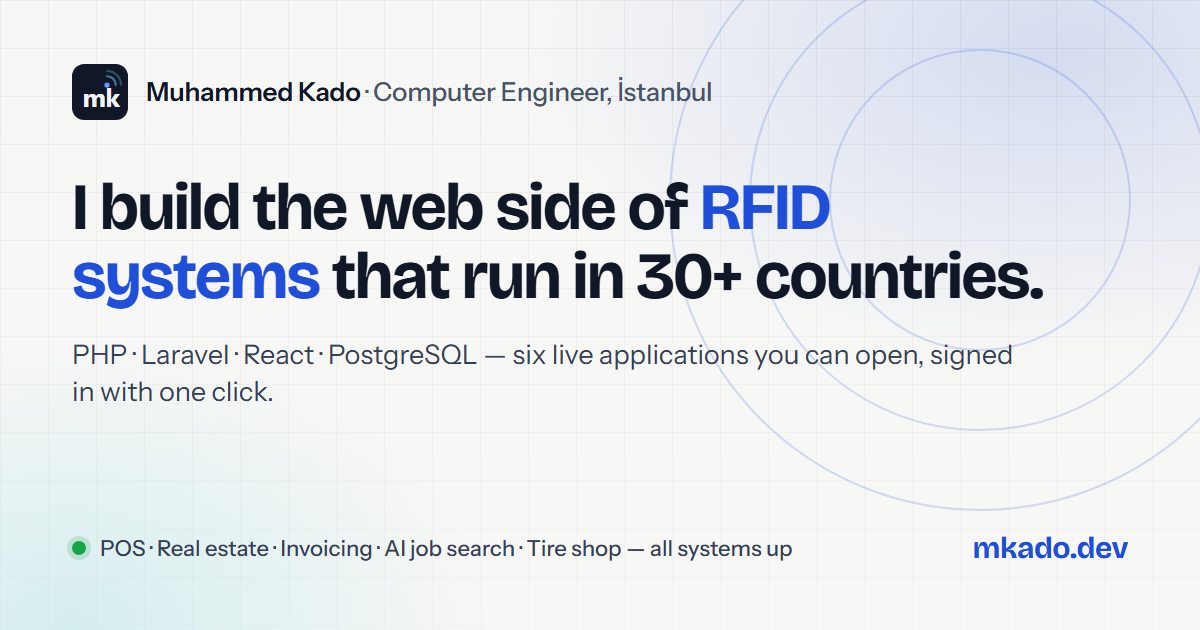
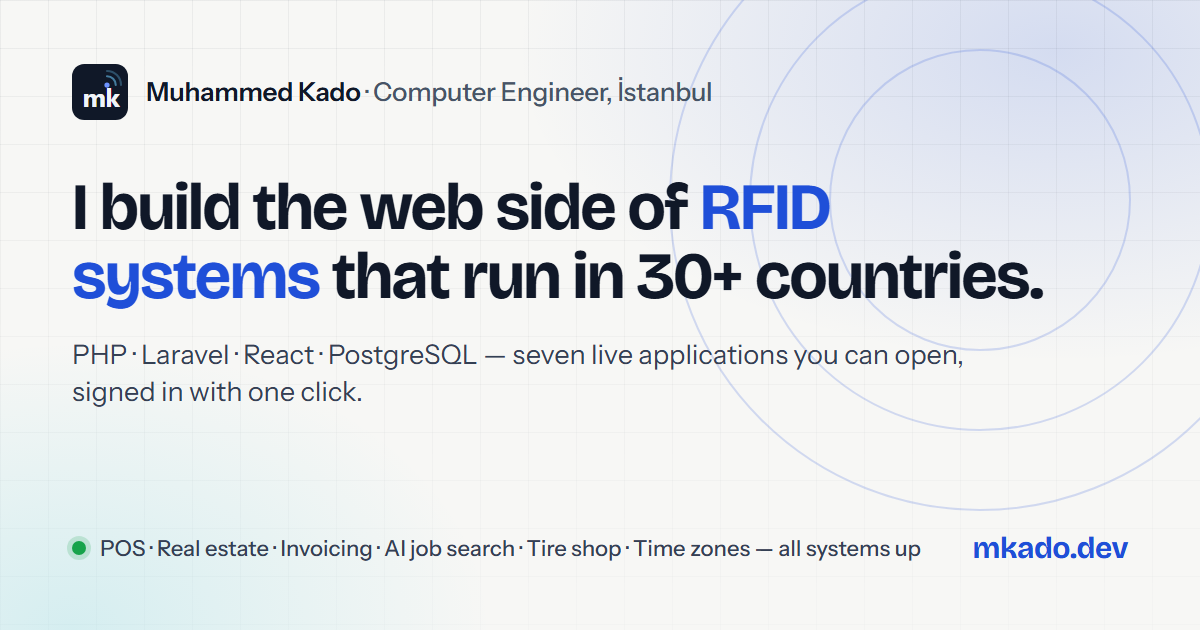
Seventh demo: TimeZone.tools at timezone.mkado.dev
Promoted from the side-projects list to the demo board with a screenshot, a
case study and its diagram; the status probe watches it; copy says seven
everywhere; new share image.

Claude-Session: https://claude.ai/code/session_01VHqrFFmiUR8tMQ4RftZj2C

Changed region(s): [[0.4317, 0.5429, 0.8633, 0.6032], [0.5242, 0.8444, 0.7708, 0.9048], [0.0617, 0.6032, 0.3083, 0.6635]]

diff --git a/src/data/tr.ts b/src/data/tr.ts
@@ -6,42 +6,38 @@ export const tr = {
   profile: {
     title: 'Bilgisayar Mühendisi',
     role: 'Full-Stack Geliştirici',
-    headline: "30'dan fazla ülkede çalışan RFID sistemlerinin web tarafını geliştiriyorum.",
+    headline: "30'dan fazla ülkede kullanılan RFID tabanlı sistemlerin web arayüzlerini geliştiriyorum.",
     intro:
-      "İstanbul'da yaşayan, full-stack çalışan bir bilgisayar mühendisiyim. 2023'ten beri USTEK RFID'de PHP, Laravel ve " +
-      "Zend Framework ile REST API'ler ve web arayüzleri geliştiriyorum; ürün, 30'dan fazla ülkede ticari çamaşırhaneler, " +
-      'oteller ve hastaneler tarafından kullanılan bir çamaşır yönetim platformu. Kendi zamanımda React ve Next.js ile ' +
-      'üretiyorum. Aşağıdaki altı uygulama yayında ve denemeniz için açık.',
+      "İstanbul'da yaşayan full-stack bir bilgisayar mühendisiyim. 2023'ten bu yana USTEK RFID bünyesinde, 30'u aşkın ülkede hizmet veren çamaşırhane yönetim platformunun web arayüzlerini ve REST API'lerini PHP, Laravel ve Zend Framework ile geliştiriyorum. Ayrıca, React ve Next.js ile projeler üretiyorum. Aşağıdaki altı uygulama, doğrudan denemeniz için yayında.",
     plain:
-      'Sade anlatımıyla: otellerin ve çamaşırhanelerin her bir parçayı otomatik takip edebilmesi için RFID donanımının ' +
-      'üstünde çalışan web sistemlerini yazıyorum.',
+      'Kısacası: Otel ve çamaşırhanelerin tekstil envanterlerini RFID teknolojisiyle otomatik takip edebilmeleri için gereken web tabanlı yönetim sistemlerini tasarlayıp geliştiriyorum.',
   },
 
   demos: {
     pos: {
       summary:
-        'Bir satış noktası sisteminin arka ofisi: ürünler, kategoriler, müşteriler ve rol bazlı yetkilerle kullanıcılar; İngilizce ve Arapça (sağdan sola).',
-      note: 'Kayıt kapalı; yukarıdaki hesaplardan birini kullanın. Veriler her gece sıfırlanır.',
+        'Satış noktası (POS) arka ofis sistemi: Ürün, kategori, müşteri yönetimi ve rol tabanlı kullanıcı yetkilendirmesi; İngilizce ve Arapça (RTL) dil desteği.',
+      note: 'Demo modu açık. Demo hesaplarından birini kullanabilirsiniz. Veriler her gece sıfırlanır.',
     },
     besttrend: {
       summary:
-        'Suriye için emlak platformu: fotoğraflı ve haritalı ilanlar, arama ve kayıtlı aramalar, favoriler, ilan sahibi istatistikleri ve moderasyon için yönetim paneli. Arapça, İngilizce ve Kürtçe.',
-      note: 'Özel depo — kod istek üzerine paylaşılır.',
+        'Suriye emlak platformu: Fotoğraflı ve harita destekli ilanlar, gelişmiş arama, favoriler, ilan sahibi istatistikleri ve kapsamlı yönetim paneli. Arapça, İngilizce ve Kürtçe dil desteği.',
+      note: 'Özel proje: Kaynak kod istek üzerine paylaşılır.',
     },
     invoice: {
       summary:
-        'Kalem kalem faturalar ve canlı toplamlar, bekleyen / ödenmiş / geciken ödemelerin takibi, PDF çıktısı ve müşteriye e-posta.',
-      note: "Framework'süz sade PHP: prepared statement'lar, CSRF token'ları, kullanıcıya özel veri.",
+        'Faturalandırma ve ödeme takibi: Detaylı fatura oluşturma, canlı toplam hesaplama, ödeme durumu (bekleyen/ödendi/gecikmiş) takibi, PDF çıktısı ve müşteriye e-posta gönderimi.',
+      note: "Saf PHP: Prepared statement'lar ve CSRF koruması ile güvenli ve hızlı.",
     },
     findjob: {
       summary:
-        'CV yükleyin, Gemini onu düzenlenebilir bir profile dönüştürsün, sonra gerçek iş ilanlarıyla puanlanmış eşleşmeleri görün.',
-      note: "Giriş yok. Örnek CV'yi deneyin ya da kendi PDF'inizi yükleyin.",
+        "Yapay zeka tabanlı iş eşleştirici: CV'nizi yükleyin, Gemini düzenlenebilir bir profile dönüştürsün; ardından size en uygun iş ilanlarıyla eşleşin.",
+      note: "Kayıt gerekmez. Örnek CV'yi deneyin ya da kendi PDF'inizi yükleyin.",
     },
     tireshop: {
       summary:
-        'Lastikçi işletmek için mobil öncelikli PWA: stok, satış ve fatura, giderler ve kâr raporları. Arapça, sağdan sola.',
-      note: 'Giriş yok — yerel demo modunda çalışır, veriler tarayıcınızda kalır.',
+        'Mobil uyumlu lastikçi yönetim sistemi (PWA): Stok, satış, faturalama, gider ve kâr takibi. Arapça (RTL) dil desteği.',
+      note: 'Giriş gerekmez: Yerel demo modunda çalışır, veriler tarayıcınızda kalır.',
     },
   } as Record<string, { summary: string; note: string }>,
 
@@ -51,12 +47,12 @@ export const tr = {
       org: 'USTEK RFID',
       where: 'İstanbul',
       summary:
-        "USTEK, ticari çamaşırhaneler, oteller ve sağlık kurumları için RFID tabanlı çamaşır yönetimi geliştiriyor; 30'dan fazla ülkede kurulu. Ben okuyucuların ve terminallerin üstünde çalışan web platformunda çalışıyorum.",
+        "USTEK, ticari çamaşırhaneler, oteller ve sağlık kurumları için RFID tabanlı çamaşır yönetimi çözümleri sunuyor; dünya genelinde 30'dan fazla ülkede kurulu. Ben, okuyucular ve terminallerle entegre çalışan web platformunun geliştirilmesinde görev alıyorum.",
       bullets: [
-        "Gerçek zamanlı RFID envanter takibi, otomatik faturalama ve lojistik için PHP, Laravel ve Zend Framework 1 ile REST API'ler ve web arayüzleri geliştirdim.",
-        'Çarşaf ve üniforma yaşam döngüsü özellikleri: depo izleme, üniforma kiralama yönetimi ve forma dağıtımı.',
-        'UHF RFID terminalleri, okuyucular ve platform arasında verinin güvenilir akması için donanım ekibiyle çalıştım.',
-        'Hataya açık modülleri yeniden yazarak dünya genelindeki müşterilerde üretim olaylarını azalttım.',
+        "PHP, Laravel ve Zend Framework 1 kullanarak; gerçek zamanlı RFID envanter takibi, otomatik faturalama ve lojistik süreçleri için REST API'ler ve web arayüzleri geliştirdim.",
+        'Tekstil yaşam döngüsü yönetimi: Depo takibi, kiralama yönetimi ve forma dağıtım süreçlerini optimize ettim.',
+        'UHF RFID terminalleri, okuyucular ve platform arasında kesintisiz ve güvenilir veri akışını sağlamak için donanım ekibiyle koordineli çalıştım.',
+        'Kritik modülleri yeniden yapılandırarak global ölçekte sistem hatalarını azalttım.',
       ],
     },
     {
@@ -64,7 +60,7 @@ export const tr = {
       org: 'Bağımsız çalışma',
       where: 'mkado.dev üzerinde yayında',
       summary:
-        "Bir POS arka ofisi, bir fatura sistemi, yönetim paneliyle bir emlak platformu, yapay zekâlı bir iş eşleştirici ve bir lastikçi PWA'sı — her biri kendi veritabanıyla uçtan uca geliştirildi ve herkesin açabileceği canlı demo olarak yayınlandı.",
+        "POS arka ofisi, fatura sistemi, emlak platformu, yapay zeka destekli iş eşleştirici ve lastikçi PWA'sı: Her biri kendi veritabanıyla uçtan uca geliştirildi ve canlı demo olarak yayımlandı.",
       bullets: [],
     },
     {
@@ -72,7 +68,7 @@ export const tr = {
       org: 'Burdur Mehmet Akif Ersoy Üniversitesi',
       where: 'Burdur',
       summary:
-        'Bitirme projesi: Kado Job App — Flutter, Bloc ve Firebase ile geliştirilmiş, yönetim paneli olan bir iş ilanı ve proje kadrolama Android uygulaması.',
+        'Bitirme projesi: Kado Job App — Flutter, Bloc ve Firebase kullanılarak geliştirilen; yönetim paneli ile bütünleşik bir Android iş ilanı ve personel kadrolama uygulaması.',
       bullets: [],
     },
   ],

diff --git a/src/lib/i18n.ts b/src/lib/i18n.ts
@@ -14,7 +14,7 @@ export const homeFor = (lang: Lang) => (lang === 'tr' ? '/tr/' : '/');
 
 const en = {
   htmlTitle: `${profile.name} — ${profile.title}`,
-  description: 'Computer engineer in İstanbul, full-stack PHP/Laravel/React. Building RFID laundry-management software at USTEK since 2023, used in 30+ countries. Six live demos you can open, signed in with one click.',
+  description: 'Computer engineer in İstanbul, full-stack PHP/Laravel/React. Building RFID laundry-management software at USTEK since 2023, used in 30+ countries. Seven live demos you can open, signed in with one click.',
   location: profile.location,
   openToWork: 'Open to work',
   theme: 'Switch colour theme',
@@ -28,7 +28,7 @@ const en = {
     readout: ['UHF RFID', 'readers, terminals, web platform', '30+ countries'],
   },
   showcase: {
-    h2: 'Six applications you can sign into',
+    h2: 'Seven applications you can open',
     lead: 'Real deployments, each with its own database. Use the demo accounts, change whatever you like — everything resets overnight.',
     allUp: 'All systems up',
     someUp: (up: number, total: number) => `${up} of ${total} up`,
@@ -78,21 +78,21 @@ const en = {
 
 const trUi: typeof en = {
   htmlTitle: `${profile.name} — ${tr.profile.title}`,
-  description: "İstanbul'da bilgisayar mühendisi, full-stack PHP/Laravel/React. 2023'ten beri USTEK'te 30'dan fazla ülkede kullanılan RFID çamaşır yönetimi yazılımı geliştiriyorum. Tek tıkla giriş yapılan altı canlı demo.",
+  description: "İstanbul'da bilgisayar mühendisi, full-stack PHP/Laravel/React. 2023'ten beri USTEK'te 30'dan fazla ülkede kullanılan RFID çamaşır yönetimi yazılımı geliştiriyorum. Tek tıkla giriş yapılan yedi canlı demo.",
   location: 'İstanbul, Türkiye (UTC+3)',
-  openToWork: 'İş arıyorum',
+  openToWork: 'Yeni fırsatlara açığım',
   theme: 'Renk temasını değiştir',
   skip: 'İçeriğe atla',
   switchTo: { code: 'EN', title: 'English version' },
   nav: { work: 'Çalışmalar', experience: 'Deneyim', skills: 'Yetkinlikler', contact: 'İletişim', sections: 'Bölümler' },
   hero: {
     seeWork: 'Canlı çalışmaları gör',
-    downloadCv: "CV'yi indir",
+    downloadCv: 'CV indir',
     degree: 'Bilgisayar Mühendisliği Lisans',
     readout: ['UHF RFID', 'okuyucular, terminaller, web platformu', '30+ ülke'],
   },
   showcase: {
-    h2: 'Giriş yapabileceğiniz altı uygulama',
+    h2: 'Açabileceğiniz yedi uygulama',
     lead: 'Her biri kendi veritabanıyla gerçek kurulumlar. Demo hesaplarını kullanın, istediğinizi değiştirin — hepsi her gece sıfırlanır.',
     allUp: 'Tüm sistemler ayakta',
     someUp: (up: number, total: number) => `${total} demodan ${up} tanesi ayakta`,
@@ -131,7 +131,7 @@ const trUi: typeof en = {
     spoken: ['Kürtçe', 'Arapça', 'Türkçe', 'İngilizce'].join(', '),
   },
   footer: {
-    line: 'Statik Astro sitesi, istemci tarafında framework yok. Derleme:',
+    line: 'Statik Astro sitesi, istemci taraflı framework kullanılmadı. Derleme:',
     about: 'Bu site hakkında',
     notes: 'Notlar',
     source: 'Kaynak',

diff --git a/src/data/site.ts b/src/data/site.ts
@@ -20,7 +20,7 @@ export const profile = {
     'Computer engineer in İstanbul, working full-stack. Since 2023 I build REST APIs and web ' +
     'interfaces in PHP, Laravel and Zend Framework at USTEK RFID, shipping a laundry-management ' +
     'platform used by commercial laundries, hotels and hospitals. On my own time I build with React ' +
-    'and Next.js. The six applications below are deployed and yours to try.',
+    'and Next.js. The seven applications below are deployed and yours to try.',
 };
 
 export type Demo = {
@@ -122,17 +122,21 @@ export const demos: Demo[] = [
     note: 'No sign-in — runs in local demo mode, data stays in your browser.',
     period: '2025',
   },
+  {
+    slug: 'timezone',
+    name: 'TimeZone.tools',
+    summary:
+      'Time-zone converter, meeting planner and working-days calculator in seven languages, with right-to-left Arabic — the kind of small tool people keep in a tab all day.',
+    url: 'https://timezone.mkado.dev',
+    repo: 'https://github.com/muhammedkado/timetool',
+    stack: ['React 19', 'TypeScript', 'Vite', 'Tailwind 4', 'i18next'],
+    credentials: [],
+    note: 'No sign-in — everything runs in your browser.',
+    period: '2025',
+  },
 ];
 
 export const projects = [
-  {
-    name: 'TimeZone.tools',
-    summary: 'Time-zone converter, meeting planner and working-days calculator in seven languages with RTL support.',
-    stack: ['React 19', 'Vite', 'Tailwind 4', 'i18next'],
-    url: null, // no public deployment yet; the card links to the source
-    repo: 'https://github.com/muhammedkado/timetool',
-    live: false,
-  },
   {
     name: 'Kado Job App',
     summary: 'Job-board and project-staffing Android app with an admin panel — my graduation project.',
@@ -221,12 +225,12 @@ export const timeline: TimelineEntry[] = [
     from: '2024',
     to: 'present',
     kind: 'projects',
-    title: 'Six live applications',
+    title: 'Seven live applications',
     org: 'Independent work',
     where: 'live on mkado.dev',
     summary:
-      'A POS back office, an invoicing system, a real-estate platform with its admin panel, an AI job matcher and a ' +
-      'tire-shop PWA — each built end to end with its own database, and published as a live demo anyone can open.',
+      'A POS back office, an invoicing system, a real-estate platform with its admin panel, an AI job matcher, a ' +
+      'tire-shop PWA and a time-zone toolkit — each built end to end and published as a live demo anyone can open.',
     bullets: [],
   },
   {

diff --git a/scripts/og.html b/scripts/og.html
@@ -54,9 +54,9 @@
       <div class="who">Muhammed Kado <span>· Computer Engineer, İstanbul</span></div>
     </div>
     <h1>I build the web side of <em>RFID systems</em> that run in 30+ countries.</h1>
-    <p class="sub">PHP · Laravel · React · PostgreSQL — six live applications you can open, signed in with one click.</p>
+    <p class="sub">PHP · Laravel · React · PostgreSQL — seven live applications you can open, signed in with one click.</p>
     <div class="bottom">
-      <div class="demos"><span class="dot"></span> POS · Real estate · Invoicing · AI job search · Tire shop — all systems up</div>
+      <div class="demos"><span class="dot"></span> POS · Real estate · Invoicing · AI job search · Tire shop · Time zones — all systems up</div>
       <div class="url">mkado.dev</div>
     </div>
   </div>

diff --git a/scripts/diagrams.py b/scripts/diagrams.py
@@ -264,6 +264,24 @@ def deployment():
            "A workstation script pushes code over SSH and uploads local builds; visitors reach the Oracle Cloud VM through Cloudflare's edge, where nginx routes each host to a PHP-FPM pool or a static directory, every app has its own database, and cron jobs re-seed the demos nightly, back up and probe health every five minutes.",
            768, 452, N, E, Z)
 
+def timezone():
+    N = [
+        node("app", 40, 92, "React 19 SPA", "wouter routes, i18next", "APP", "focal", w=160),
+        node("intl", 272, 32, "Intl API", "browser time zones, formats", "BROWSER", "external", w=160),
+        node("locales", 272, 132, "/locales/*.json", "7 languages, RTL for ar", "STATIC", "store", w=160),
+        node("share", 272, 232, "URL state", "shareable links, no backend", "STATE", "async", w=160),
+        node("cdn", 528, 132, "nginx + Cloudflare", "static files, 1y cache", "EDGE", "external", w=176),
+    ]
+    E = [
+        edge("app", "intl", "COMPUTE", src_side="top", dst_side="left"),
+        edge("app", "locales", "FETCH", "link"),
+        edge("app", "share", "ENCODE", "dashed", src_side="bottom", dst_side="left"),
+        edge("cdn", "locales", "SERVES", "dashed"),
+    ]
+    render("timezone", "TimeZone.tools: everything happens in the browser",
+           "A React single-page app computes conversions and working days with the browser's Intl API, loads its seven translation files at runtime, keeps state in the URL so links are shareable, and is served as plain static files behind Cloudflare — there is no backend.",
+           768, 316, N, E)
+
 if __name__ == "__main__":
-    for fn in (pos, besttrend, besttrend_api, invoice, findjob, tireshop, deployment):
+    for fn in (pos, besttrend, besttrend_api, invoice, findjob, tireshop, timezone, deployment):
         fn()

diff --git a/src/content/work/timezone.md b/src/content/work/timezone.md
@@ -1,0 +1,24 @@
+---
+title: TimeZone.tools
+tagline: Five small time tools — zone converter, meeting planner, date difference, countdown and working days — in seven languages, fast, and entirely in the browser.
+period: "2025"
+order: 7
+problem: Remote teams and job seekers across time zones keep asking the same three questions — what time is it there, when can we all meet, and how many working days until a date. Existing sites answer them slowly, behind ads and cookie walls, and rarely in Arabic or Kurdish. This one had to be instant, shareable by link, and right-to-left when needed.
+built:
+  - React 19 + TypeScript single-page app (Vite, Tailwind 4, wouter for routing) with no backend at all — conversions and calendars come from the browser's Intl API.
+  - Seven languages through i18next with translation files loaded at runtime, including Arabic with a full right-to-left layout.
+  - Shareable state — the selected zones, times and dates live in the URL, so a meeting proposal is one link.
+  - "SEO-ready static build: per-tool pages, Open Graph tags, sitemap and robots, served as cached static files behind Cloudflare."
+tryIt:
+  - Open the converter, add two or three cities and change the time — every zone updates together.
+  - Switch the language to العربية from the header and watch the whole layout mirror.
+  - Copy the link after setting a meeting time and open it in another tab; the state comes with it.
+---
+
+## Notes from building it
+
+**No backend on purpose.** Everything a time-zone tool needs — zone data, daylight-saving rules, date formatting per locale — already ships in every modern browser as the Intl API. Skipping a server made the app cheaper to host (a folder on nginx), faster (nothing to wait for) and easier to trust (nothing leaves the page).
+
+**State in the URL.** The point of a meeting planner is sending it to someone. Serialising the selection into the query string means a share button is just "copy the address", and the back button works the way people expect.
+
+**A Replit monorepo, built on Windows.** The repository came from Replit's workspace layout, which excludes every non-Linux build binary. The portfolio deploy builds on a Windows workstation, so the workspace now allows the win32 binaries too — a two-line change that turned a red build green.

diff --git a/README.md b/README.md
@@ -4,7 +4,7 @@ Personal site of Muhammed Kado — computer engineer and full-stack PHP/Laravel/
 
 Three renderings of the same content, all static:
 
-- `/` — the main site: an animated RFID-reader hero, a tabbed board of six live demos (dashboard screenshot, one-click "Open signed in" button, demo accounts as the fallback), a timeline, skills tied to the projects that use them, contact.
+- `/` — the main site: an animated RFID-reader hero, a tabbed board of seven live demos (dashboard screenshot, one-click "Open signed in" button, demo accounts as the fallback), a timeline, skills tied to the projects that use them, contact.
 - `/v2` — a Swiss / minimalist rendering generated with the [ui-ux-pro-max](https://github.com/nextlevelbuilder/ui-ux-pro-max-skill) design system (`design-system/mkado-dev-v2/MASTER.md`): navy + blue CTA, Space Grotesk / Archivo, filterable project grid, GSAP reveals. `noindex`, left out of the sitemap.
 - `/v3` — "mkOS": the same content as a small operating system, written so non-programmers can follow it. Boot screen, windows, dock, Ctrl+K search, a terminal with clickable commands, an in-place English / Turkish switch (Turkish copy in `src/data/tr.ts`). `noindex`, left out of the sitemap.
 
@@ -20,6 +20,7 @@ All content lives in `src/data/site.ts`; the components only render it. The year
 | Invoice System | https://invoice.mkado.dev/demo.php | [invoice-system-php](https://github.com/muhammedkado/invoice-system-php) |
 | Find Job with AI | https://findjob.mkado.dev (no sign-in) | [find_job_with_ai](https://github.com/muhammedkado/find_job_with_ai) |
 | Tire Shop PWA | https://tireshop.mkado.dev (local demo mode, no sign-in) | [tire-shop](https://github.com/muhammedkado/tire-shop) |
+| TimeZone.tools | https://timezone.mkado.dev (no sign-in) | [timetool](https://github.com/muhammedkado/timetool) |
 
 Each app exposes a `/health` probe (`/health.php` for the invoice app). On the server, `deploy/mkado-status.sh` runs every 5 minutes, probes them with a two-strike rule (the nightly reseed must not flip the board) and writes `/var/www/mkado.dev/status/status.json`, served as `/status.json`. `src/scripts/status.ts` swaps that live state into the dots and the "All systems up · checked N min ago" pill; without it the pages keep their build-time state (`demosLive` in `site.ts`).
 
